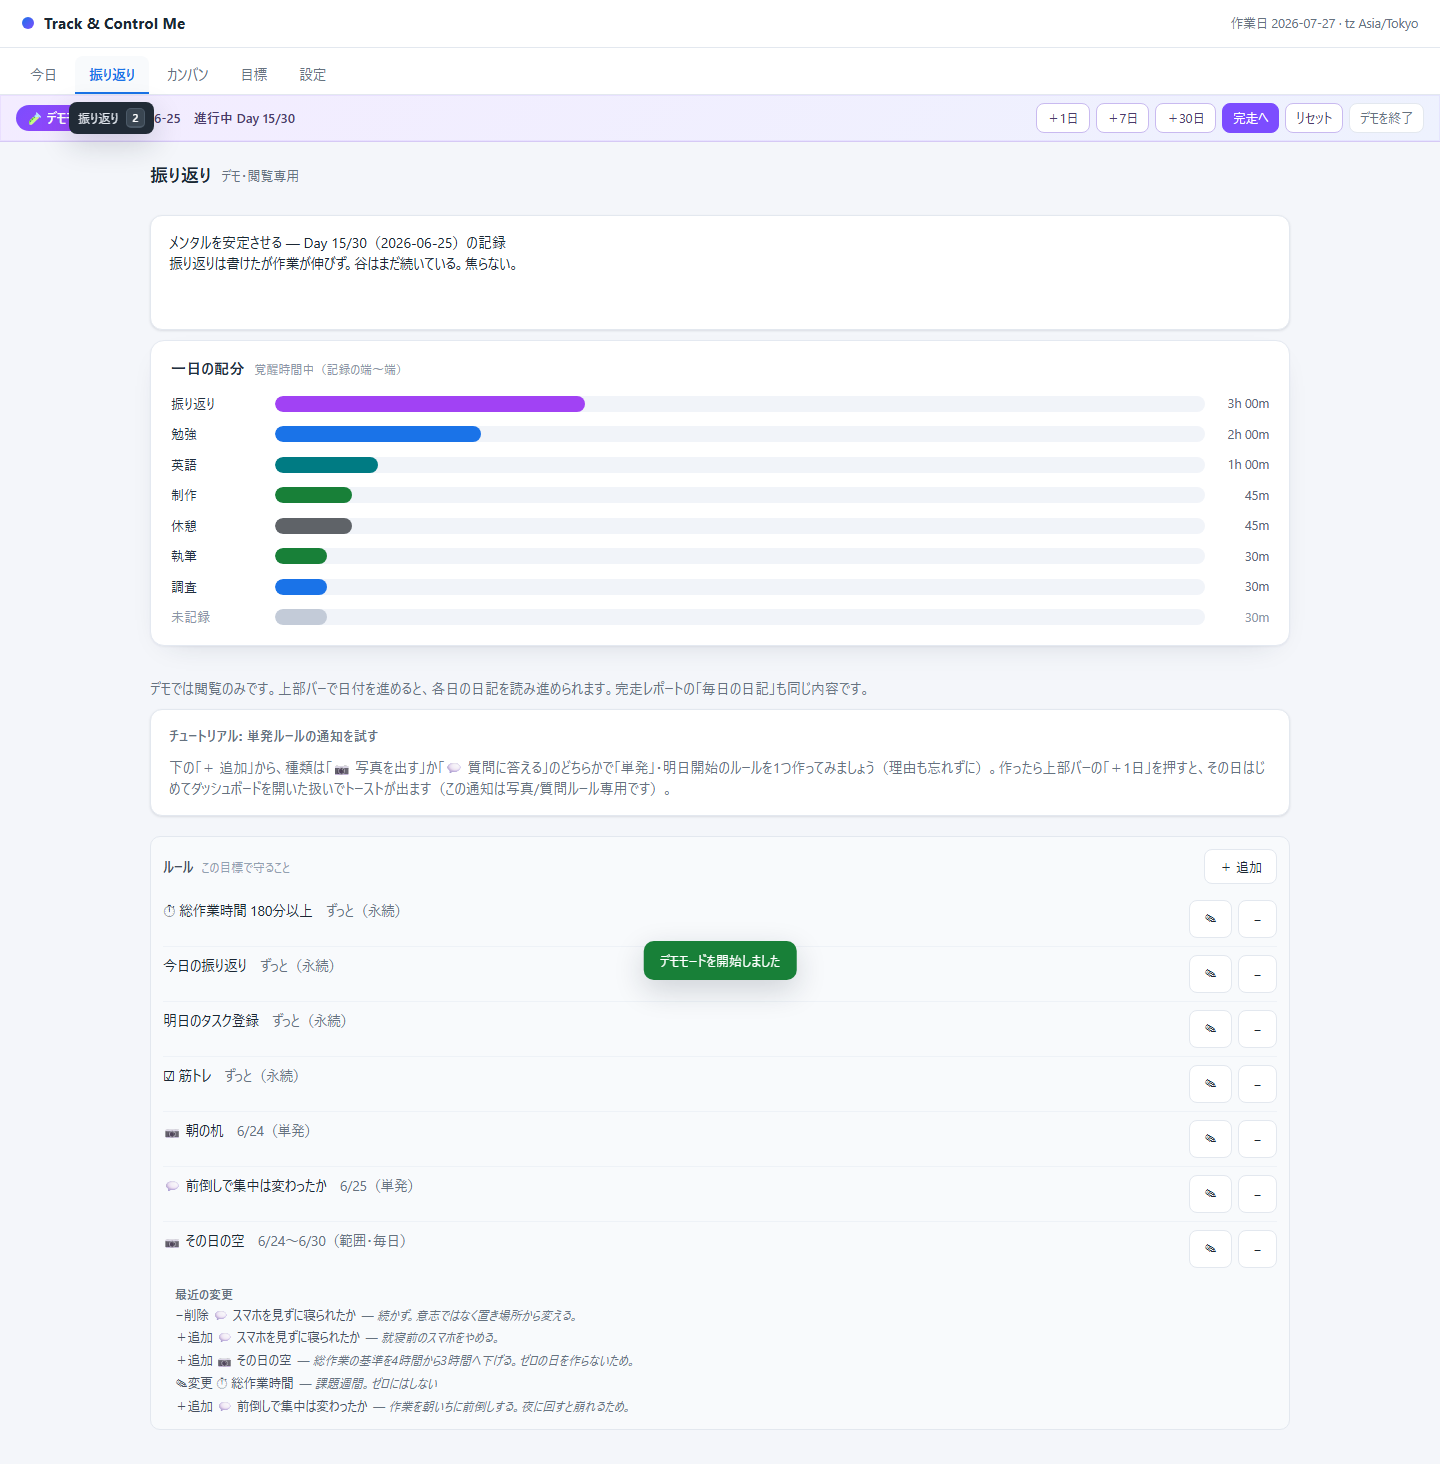
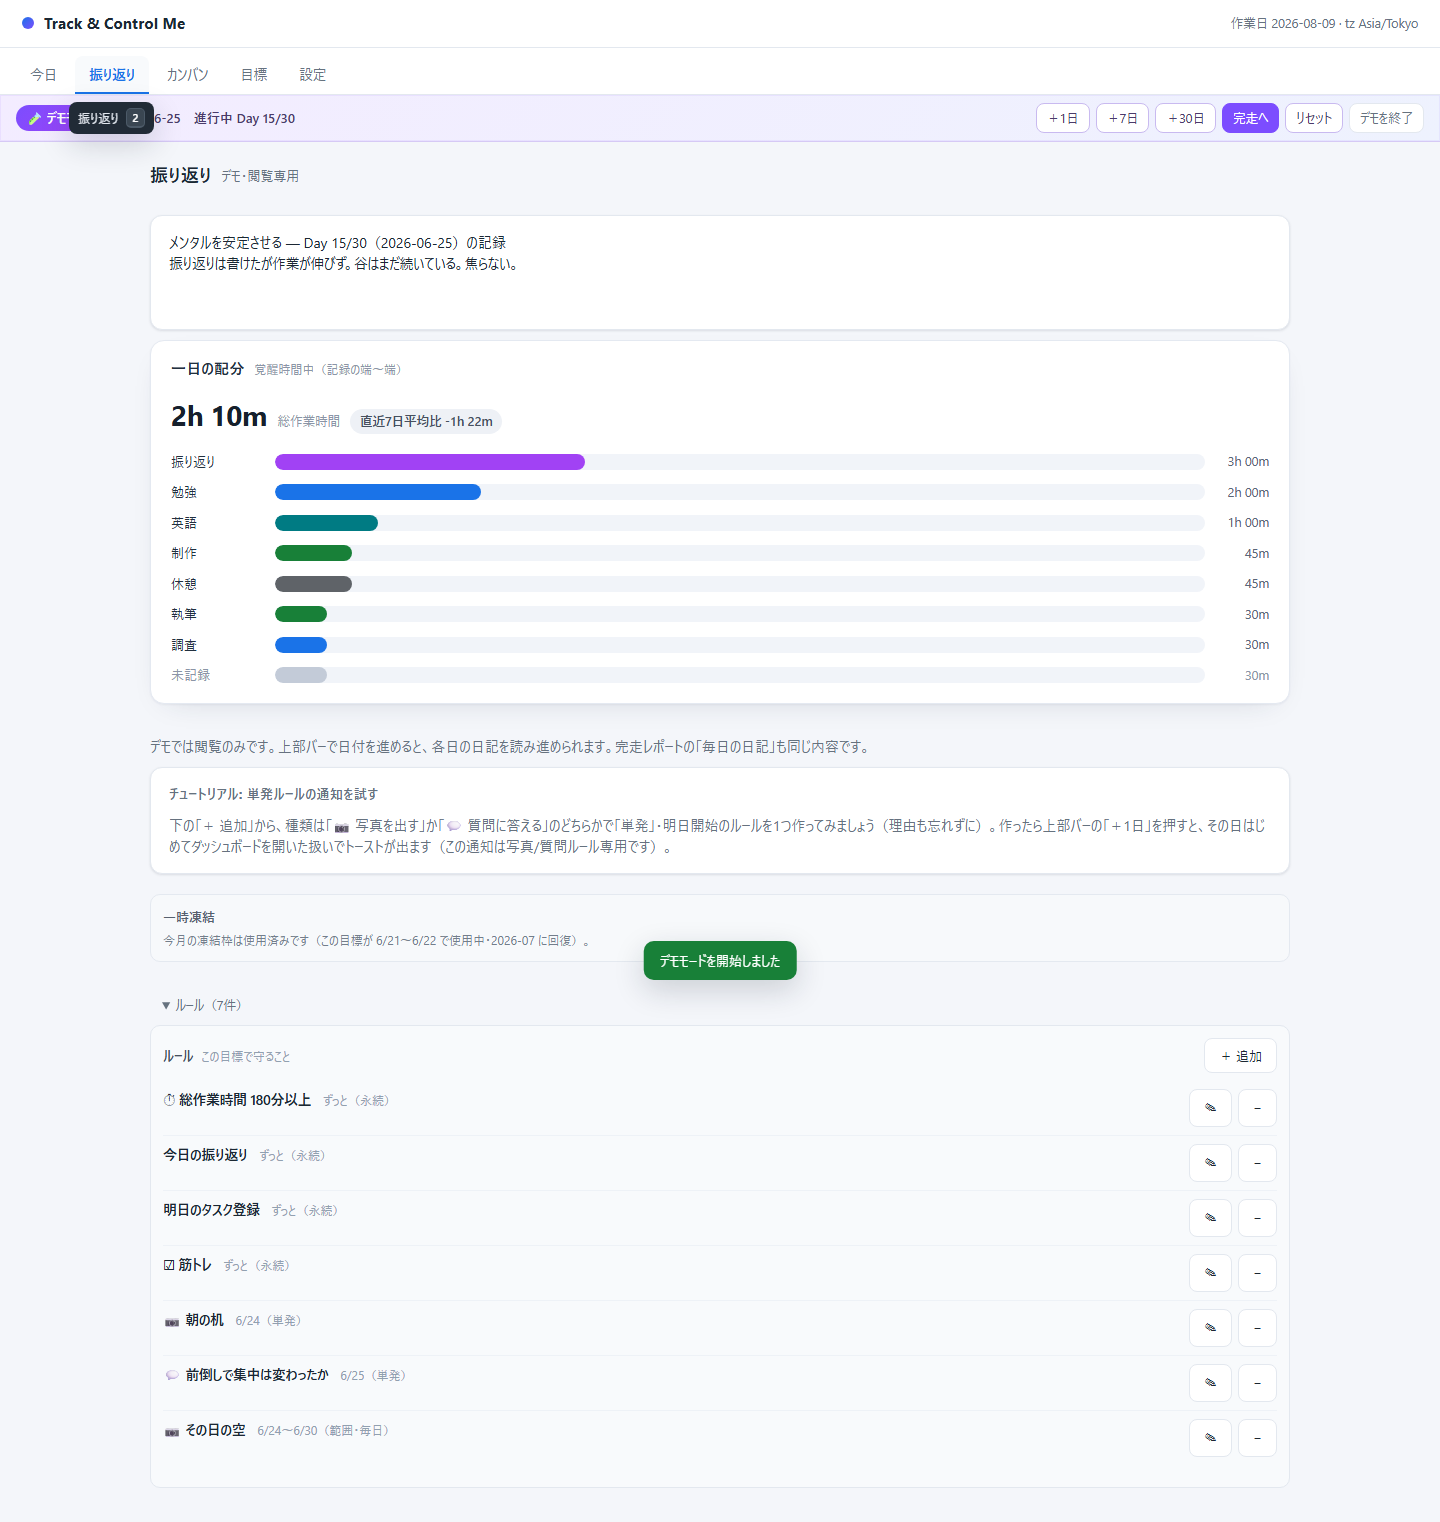
docs: update README with beginner-friendly setup guide and UI screenshots

diff --git a/README.md b/README.md
@@ -9,16 +9,26 @@
 「作業に集中したいが娯楽の誘惑に負けてしまう」課題に対し、意思の力に頼らず物理的にアクセスを制限する仕組みとして開発。
 「開発タブで2時間以上」「総作業時間で4時間以上」といった**カテゴリ別・総時間ごとの柔軟な日次目標**を設定し、すべての条件を満たすまで外部PCのパスワード開示をブロックします。
 
+## 主な画面機能
+
+| 今日（ダッシュボード） | 振り返り（分析 & タイムライン） |
+|---|---|
+| ![今日ダッシュボード](docs/screenshots/today-dashboard.png) | ![振り返り](docs/screenshots/reflection.png) |
+
+| 目標管理 | カンバンボード |
+|---|---|
+| ![目標管理](docs/screenshots/goals.png) | ![カンバンボード](docs/screenshots/kanban.png) |
+
 ## アーキテクチャ & 技術スタック
 
 Chrome拡張機能（MV3）とローカルサーバー（Fastify）の連携構成。
 `packages/contract` を通じて拡張機能・サーバー間で Zod スキーマおよび TypeScript 型定義を共有しています。
 
-| コンポーネント | 技術スタック / 役割 |
-|---|---|
-| `extension` | **Chrome MV3 (TypeScript / esbuild)**<br>アクティブなタブグループを検出・WebSocket送信 |
-| `server` | **Fastify 5 / Node.js 22 / SQLite (better-sqlite3)**<br>時間集計（divide-by-N）、ルール評価、ダッシュボード描画 |
-| `packages/contract` | **Zod / TypeScript**<br>拡張・サーバー間のデータ通信プロトコル共有 |
+| コンポーネント      | 技術スタック / 役割                                                                                             |
+| ------------------- | --------------------------------------------------------------------------------------------------------------- |
+| `extension`         | **Chrome MV3 (TypeScript / esbuild)**<br>アクティブなタブグループを検出・WebSocket送信                          |
+| `server`            | **Fastify 5 / Node.js 22 / SQLite (better-sqlite3)**<br>時間集計（divide-by-N）、ルール評価、ダッシュボード描画 |
+| `packages/contract` | **Zod / TypeScript**<br>拡張・サーバー間のデータ通信プロトコル共有                                              |
 
 ```mermaid
 graph LR
@@ -26,3 +36,56 @@ graph LR
     Server -- "純粋関数で時間集計" --> DB[(SQLite)]
     Server -- "ダッシュボード描画" --> UI["Web UI (Vanilla JS / Chart.js)"]
 ```
+
+## セットアップ & 使い方
+
+特別な専門知識がなくても、以下のステップでローカル環境に導入して利用できます。
+
+### 1. 必要な準備（事前準備）
+
+* **Node.js**: v22 以上（[Node.js 公式サイト](https://nodejs.org/)から入手可能）
+  * ターミナル等で `node -v` と入力してバージョンが表示されれば準備完了です。
+* **ブラウザ**: Google Chrome、Microsoft Edge、または Brave（Chromium 系ブラウザに対応）
+
+### 2. プロジェクトの取得とビルド
+
+ターミナル（Windowsの場合は PowerShell やコマンドプロンプトなど）を開き、順番にコマンドを入力します。
+
+```bash
+# 1. リポジトリのクローン（またはダウンロード）
+git clone https://github.com/Fujita0113/track-and-control-me.git
+cd track-and-control-me
+
+# 2. 必要なパッケージのインストール
+npm install
+
+# 3. ブラウザ拡張機能のビルド
+npm run build:ext
+```
+
+### 3. ローカルサーバーの起動
+
+集計処理やダッシュボード機能を提供するサーバーを起動します。
+
+```bash
+npm run server
+```
+
+起動後、ブラウザで **[http://localhost:47653](http://localhost:47653)** にアクセスすると、ダッシュボード画面が開きます。
+※既定ポートは `47653` です（使用中の場合は自動的に空きポートへ割り当てられます。ターミナルに表示される `Server listening at ...` のURLをご確認ください）。
+
+### 4. ブラウザ拡張機能の読み込み
+
+1. **拡張機能ページを開く**: お使いのブラウザのアドレスバーに以下を入力して開きます。
+   * Chrome の場合: `chrome://extensions`
+   * Edge の場合: `edge://extensions`
+   * Brave の場合: `brave://extensions`
+2. **デベロッパーモードの有効化**: ページ内にある「デベロッパー モード」のスイッチをオンにします。
+3. **拡張機能の読み込み**: 「パッケージ化されていない拡張機能を読み込む」（Edge では「展開して読み込み」）ボタンをクリックします。
+4. **フォルダの選択**: 本プロジェクト内の `extension/dist` フォルダを選択します。
+
+### 5. 基本的な使い方
+
+1. **タブグループの作成**: ブラウザのタブを右クリックして「新しいグループにタブを追加」を選択し、カテゴリ名（例: 「開発」「勉強」など）を付けて作業を開始します。
+2. **自動計測の確認**: ブラウザ拡張機能がアクティブなタブグループの滞在時間を検知し、ローカルサーバーへ自動送信します。
+3. **達成度とパスワードの確認**: `http://localhost:47653` で日次の作業進捗を確認できます。事前に設定した日次目標をすべて達成すると、ロックされていたパスワードが開示されます。
